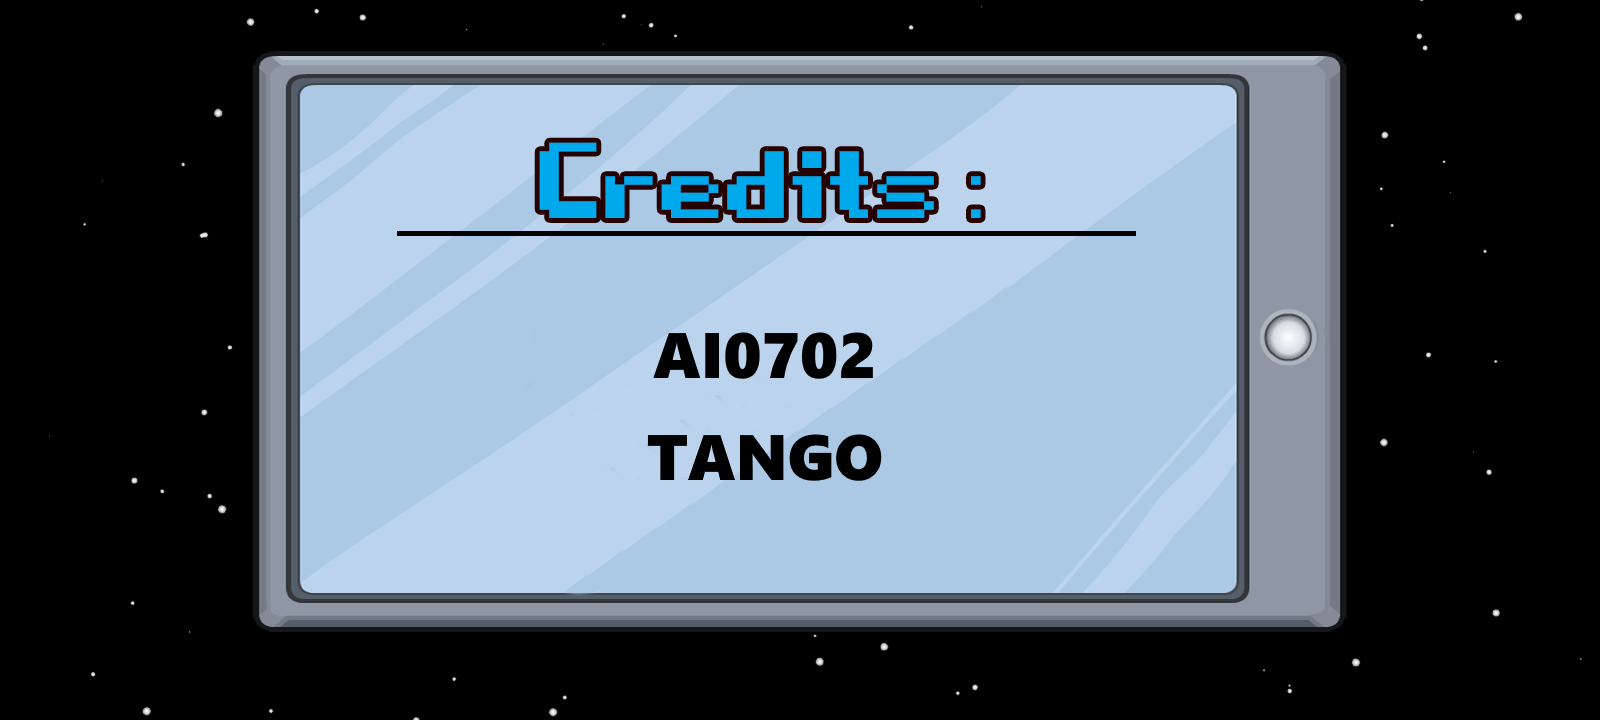
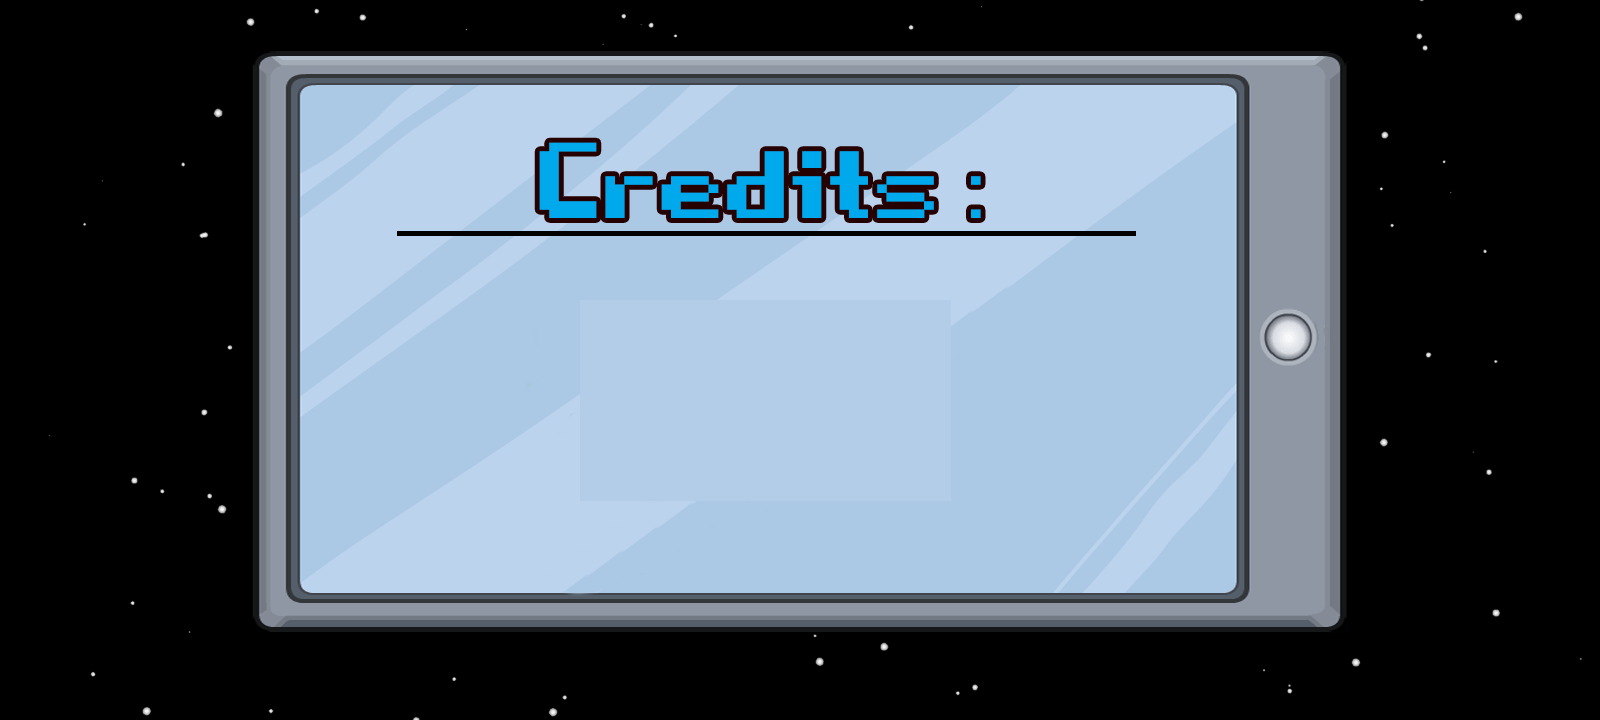
Add in-game help button and adjust UI elements
Added a clickable help button below the mini-map for accessing the controls overlay, mirroring F1 key behavior. Updated compass arrow position to avoid overlap and improved credits text rendering.

Changed region(s): [[0.4062, 0.5806, 0.5625, 0.6722], [0.4062, 0.4583, 0.5625, 0.55]]

diff --git a/game.py b/game.py
@@ -755,6 +755,8 @@ class Game:
         # before the first draw() call each frame -- default it too so a
         # click on the very first frame can't crash before draw() ever ran.
         self.map_btn = None
+        # Same reasoning as map_btn above, for the in-game help (F1) button.
+        self.help_btn = None
         # Set for one frame when the KILL/EMERGENCY HUD icon is clicked, so
         # the per-frame proximity checks in update() (which normally only
         # look at pg.key.get_pressed()) treat a click as equivalent to the
@@ -1561,10 +1563,13 @@ class Game:
         base = pg.Surface((28, 22), pg.SRCALPHA)
         pg.draw.polygon(base, YELLOW, [(28, 11), (4, 0), (10, 11), (4, 22)])
         rotated = pg.transform.rotate(base, angle)
-        # y=110, not 70 -- self.map_btn (the minimap-toggle icon, always
-        # visible) occupies (WIDTH-80, 20) sized 56x56, i.e. y=20..76 at
-        # this same x, and the arrow was rendering right on top of it.
-        center = (WIDTH - 70, 110)
+        # x=WIDTH-160, not WIDTH-70 -- that column (WIDTH-80..WIDTH-24) is
+        # occupied top-to-bottom by the map button (y=20..76) and, since the
+        # in-game help button was added right below it (y=112..168), the
+        # compass arrow at y=110 started overlapping that too. Shifted left
+        # to sit clear of the whole button column instead of chasing each
+        # new icon added there.
+        center = (WIDTH - 160, 110)
         self.screen.blit(rotated, rotated.get_rect(center=center))
         dist_surf = vn_font(13).render(f"{int(distance)}m", True, YELLOW)
         self.screen.blit(dist_surf, dist_surf.get_rect(midtop=(center[0], center[1] + 20)))
@@ -3163,6 +3168,21 @@ class Game:
             self._draw_icon_key_label(pg.Rect(self.map_btn.x, self.map_btn.y, self.map_btn.width, self.map_btn.height),
                                       "TAB", ready=True, placement="below")
 
+        # In-game help button -- a clickable stand-in for the F1 shortcut so
+        # players can discover the controls overlay without needing to know
+        # the key exists. Stacked below the mini-map button; only shown when
+        # the same conditions that let F1 open it are met, so it never
+        # invites a click that would just no-op.
+        help_btn_enabled = (not self.paused and self.quiz_window is None
+                             and not self.emerg_meeting_button_status and not self.emerg_meeting_report_status
+                             and not self.eject)
+        if self.player.alive_status and help_btn_enabled:
+            self.help_btn = Button(self, "?", 30, 56, 56, WIDTH - 80, 112, "help_btn", WHITE,
+                                   Transparent_Black, None, None, None, 0)
+            self.help_btn.draw_text(self.screen)
+            self._draw_icon_key_label(pg.Rect(self.help_btn.x, self.help_btn.y, self.help_btn.width, self.help_btn.height),
+                                      "F1", ready=True, placement="below")
+
         # # AMBIENT SOUND CODE OPENS HERE -------------------------------------------------------------
         self.gamefuctions.load_ambient_sounds()
         # AMBIENT SOUND CODE CLOSES HERE -------------------------------------------------------------
@@ -3923,6 +3943,16 @@ class Game:
                         self.mini_map_button_status = not self.mini_map_button_status
                         # If mission box is opened then close it when we click on mini map button
                         self.task_button_click_status = False
+
+            # Help button click -- same toggle and same guard conditions as
+            # the K_F1 shortcut, just reachable with the mouse too.
+            if (event.type == pg.MOUSEBUTTONDOWN and event.button == LEFT_MOUSE_BUTTON and not self.paused
+                    and self.quiz_window is None and not self.emerg_meeting_button_status
+                    and not self.emerg_meeting_report_status and not self.eject):
+                pos = pg.mouse.get_pos()
+                if self.help_btn is not None and self.help_btn.click(pos):
+                    self.help_overlay_open = not self.help_overlay_open
+                    self.isdoingTask = self.help_overlay_open
             # Action HUD icons (Emergency/Kill/Sabotage/Lights) -- clicking is
             # an alternative to the keyboard shortcuts (Space/Enter/Ctrl/
             # Shift), not a bypass of their rules: the same cooldown/

diff --git a/board.py b/board.py
@@ -357,7 +357,8 @@ class Board:
         self.surface.blit(self.intro_credits, (0, 0), (0, 0, self.width, self.height))
         pos_y = self.height * 0.45
         for name in self.CREDIT_NAMES:
-            self.draw_text(self.surface, name, self.width / 2, pos_y, self.bonus_font)
+            text = self.bonus_font.render(name, True, BLACK)
+            self.surface.blit(text, text.get_rect(center=(self.width / 2, pos_y)))
             pos_y += self.height * 0.1
         self.draw_return_button()
         pg.display.update()